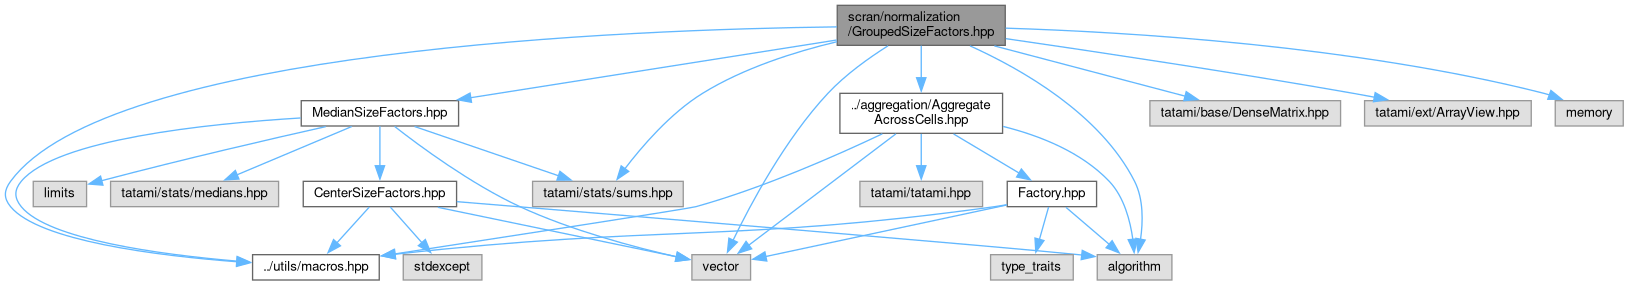
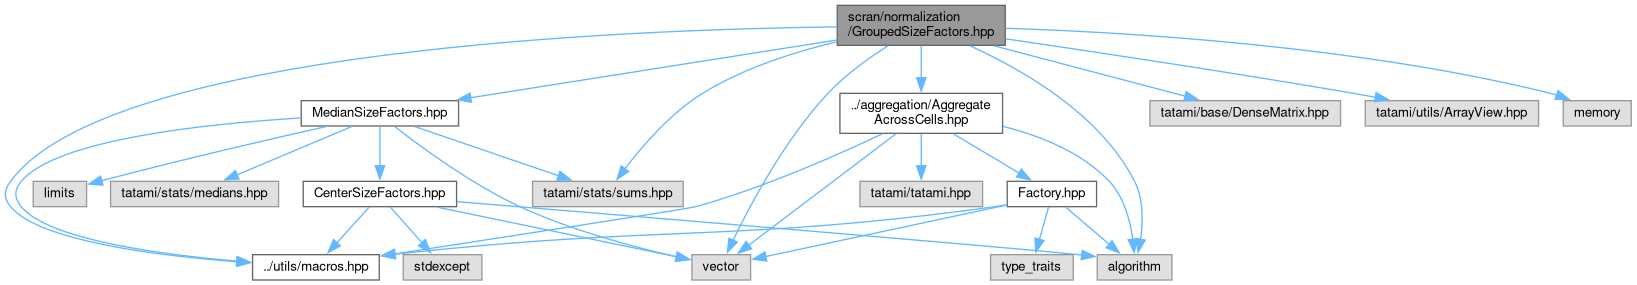
Deploying to gh-pages from @ LTLA/libscran@8965a2db0e5359868a4176b43ae9d2806d399436 🚀

diff --git a/docs/GroupedSizeFactors_8hpp.html b/docs/GroupedSizeFactors_8hpp.html
@@ -88,7 +88,7 @@ $(function() {
 <code>#include &quot;<a class="el" href="MedianSizeFactors_8hpp_source.html">MedianSizeFactors.hpp</a>&quot;</code><br />
 <code>#include &quot;<a class="el" href="AggregateAcrossCells_8hpp_source.html">../aggregation/AggregateAcrossCells.hpp</a>&quot;</code><br />
 <code>#include &quot;tatami/base/DenseMatrix.hpp&quot;</code><br />
-<code>#include &quot;tatami/ext/ArrayView.hpp&quot;</code><br />
+<code>#include &quot;tatami/utils/ArrayView.hpp&quot;</code><br />
 <code>#include &quot;tatami/stats/sums.hpp&quot;</code><br />
 <code>#include &lt;memory&gt;</code><br />
 <code>#include &lt;vector&gt;</code><br />
@@ -106,8 +106,8 @@ Include dependency graph for GroupedSizeFactors.hpp:</div>
 <area shape="rect" title=" " alt="" coords="1097,255,1172,280"/>
 <area shape="rect" href="AggregateAcrossCells_8hpp.html" title="Aggregate expression values across cells." alt="" coords="840,93,1003,133"/>
 <area shape="rect" title=" " alt="" coords="1150,101,1341,126"/>
-<area shape="rect" title=" " alt="" coords="1365,101,1531,126"/>
-<area shape="rect" title=" " alt="" coords="1555,101,1623,126"/>
+<area shape="rect" title=" " alt="" coords="1365,101,1539,126"/>
+<area shape="rect" title=" " alt="" coords="1563,101,1631,126"/>
 <area shape="rect" title=" " alt="" coords="33,181,87,207"/>
 <area shape="rect" title=" " alt="" coords="111,181,279,207"/>
 <area shape="rect" href="CenterSizeFactors_8hpp.html" title="Center size factors prior to normalization." alt="" coords="303,181,457,207"/>

diff --git a/docs/GroupedSizeFactors_8hpp_source.html b/docs/GroupedSizeFactors_8hpp_source.html
@@ -87,7 +87,7 @@ $(function() {
 <div class="line"><a id="l00007" name="l00007"></a><span class="lineno">    7</span><span class="preprocessor">#include &quot;../aggregation/AggregateAcrossCells.hpp&quot;</span></div>
 <div class="line"><a id="l00008" name="l00008"></a><span class="lineno">    8</span> </div>
 <div class="line"><a id="l00009" name="l00009"></a><span class="lineno">    9</span><span class="preprocessor">#include &quot;tatami/base/DenseMatrix.hpp&quot;</span></div>
-<div class="line"><a id="l00010" name="l00010"></a><span class="lineno">   10</span><span class="preprocessor">#include &quot;tatami/ext/ArrayView.hpp&quot;</span></div>
+<div class="line"><a id="l00010" name="l00010"></a><span class="lineno">   10</span><span class="preprocessor">#include &quot;tatami/utils/ArrayView.hpp&quot;</span></div>
 <div class="line"><a id="l00011" name="l00011"></a><span class="lineno">   11</span><span class="preprocessor">#include &quot;tatami/stats/sums.hpp&quot;</span></div>
 <div class="line"><a id="l00012" name="l00012"></a><span class="lineno">   12</span> </div>
 <div class="line"><a id="l00013" name="l00013"></a><span class="lineno">   13</span><span class="preprocessor">#include &lt;memory&gt;</span></div>

diff --git a/docs/doxygen-awesome.css b/docs/doxygen-awesome.css
@@ -160,7 +160,7 @@ html {
     --toc-background: var(--side-nav-background);
     --toc-foreground: var(--side-nav-foreground);
 
-    /* height of an item in any tree / collapsable table */
+    /* height of an item in any tree / collapsible table */
     --tree-item-height: 30px;
 
     --memname-font-size: var(--code-font-size);
